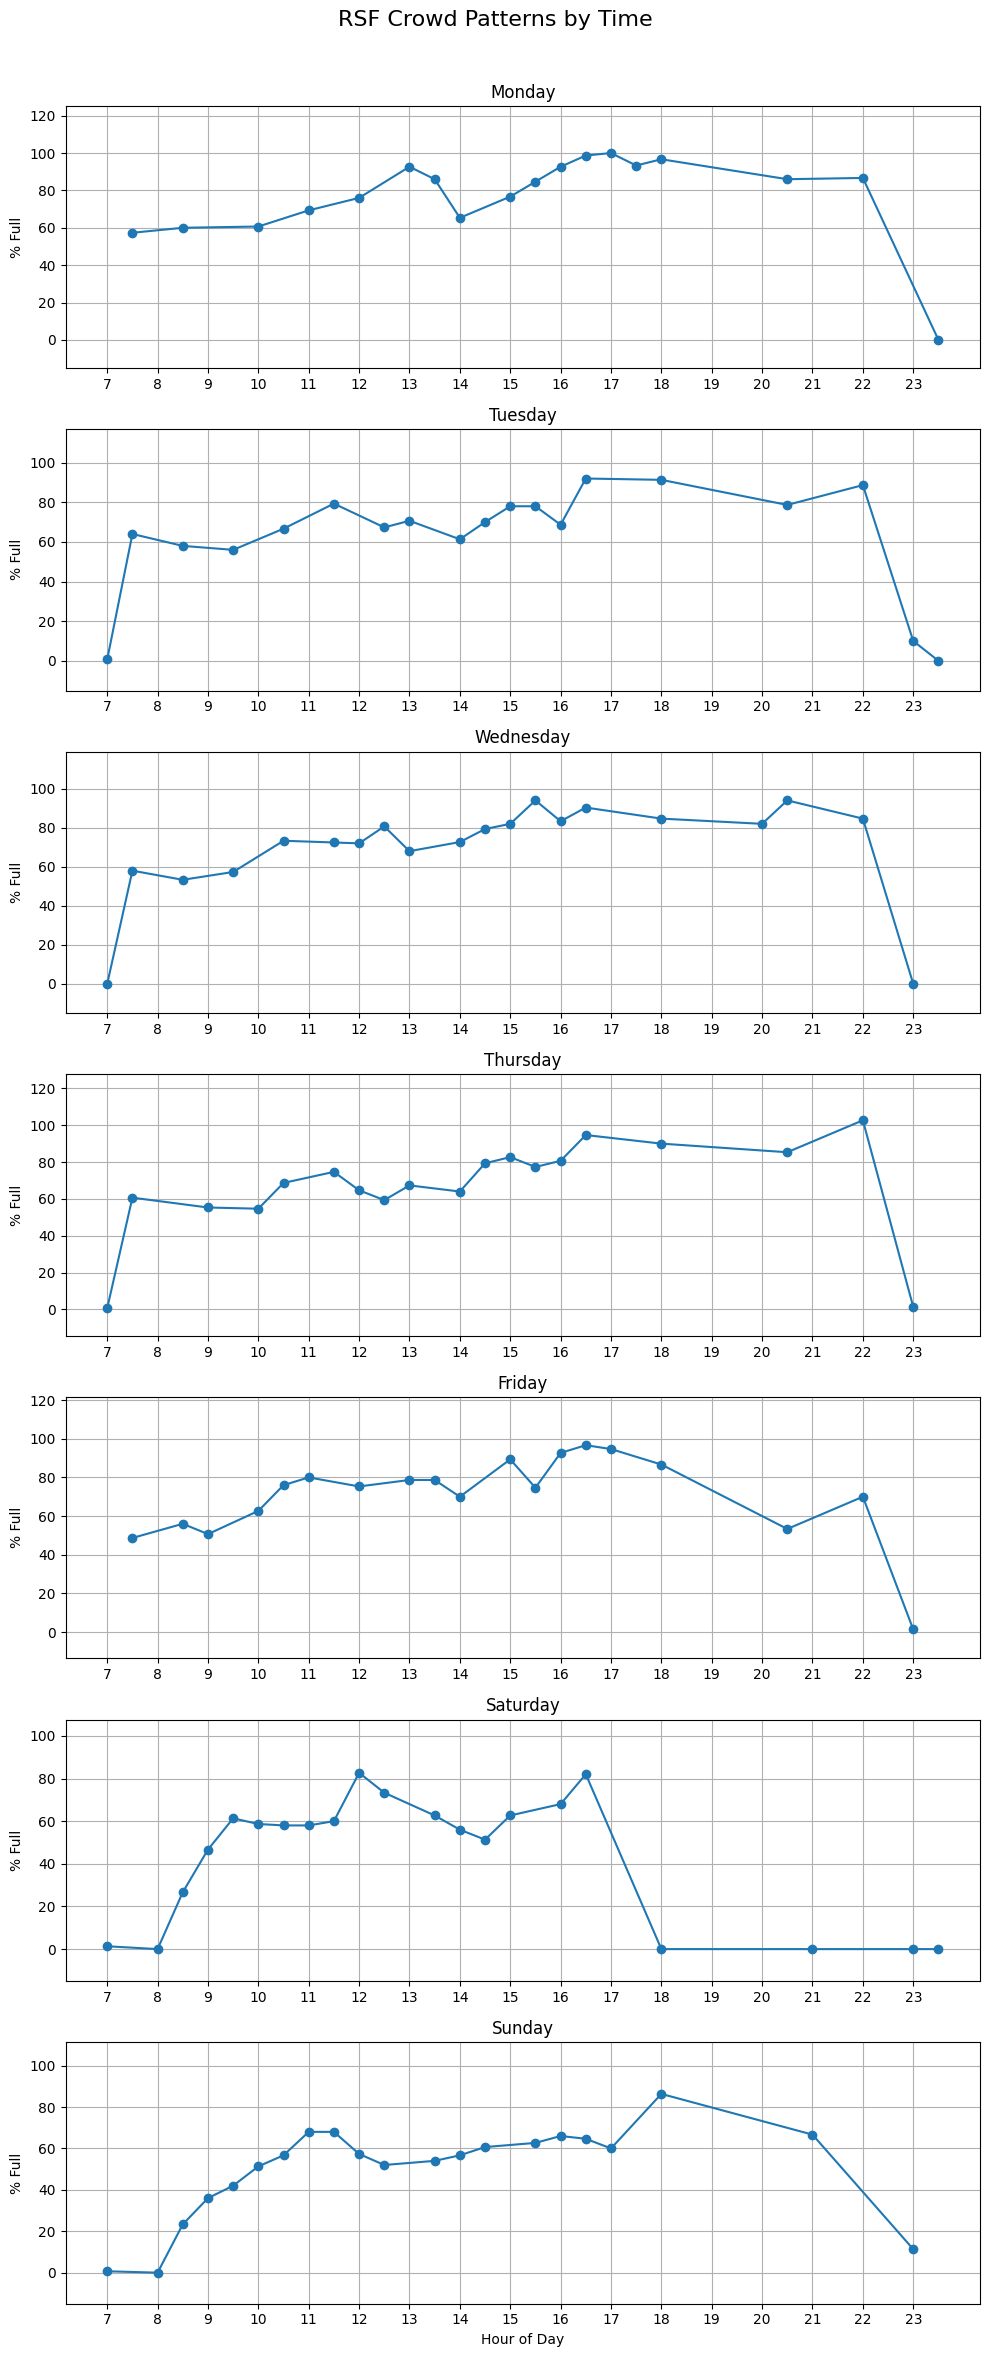
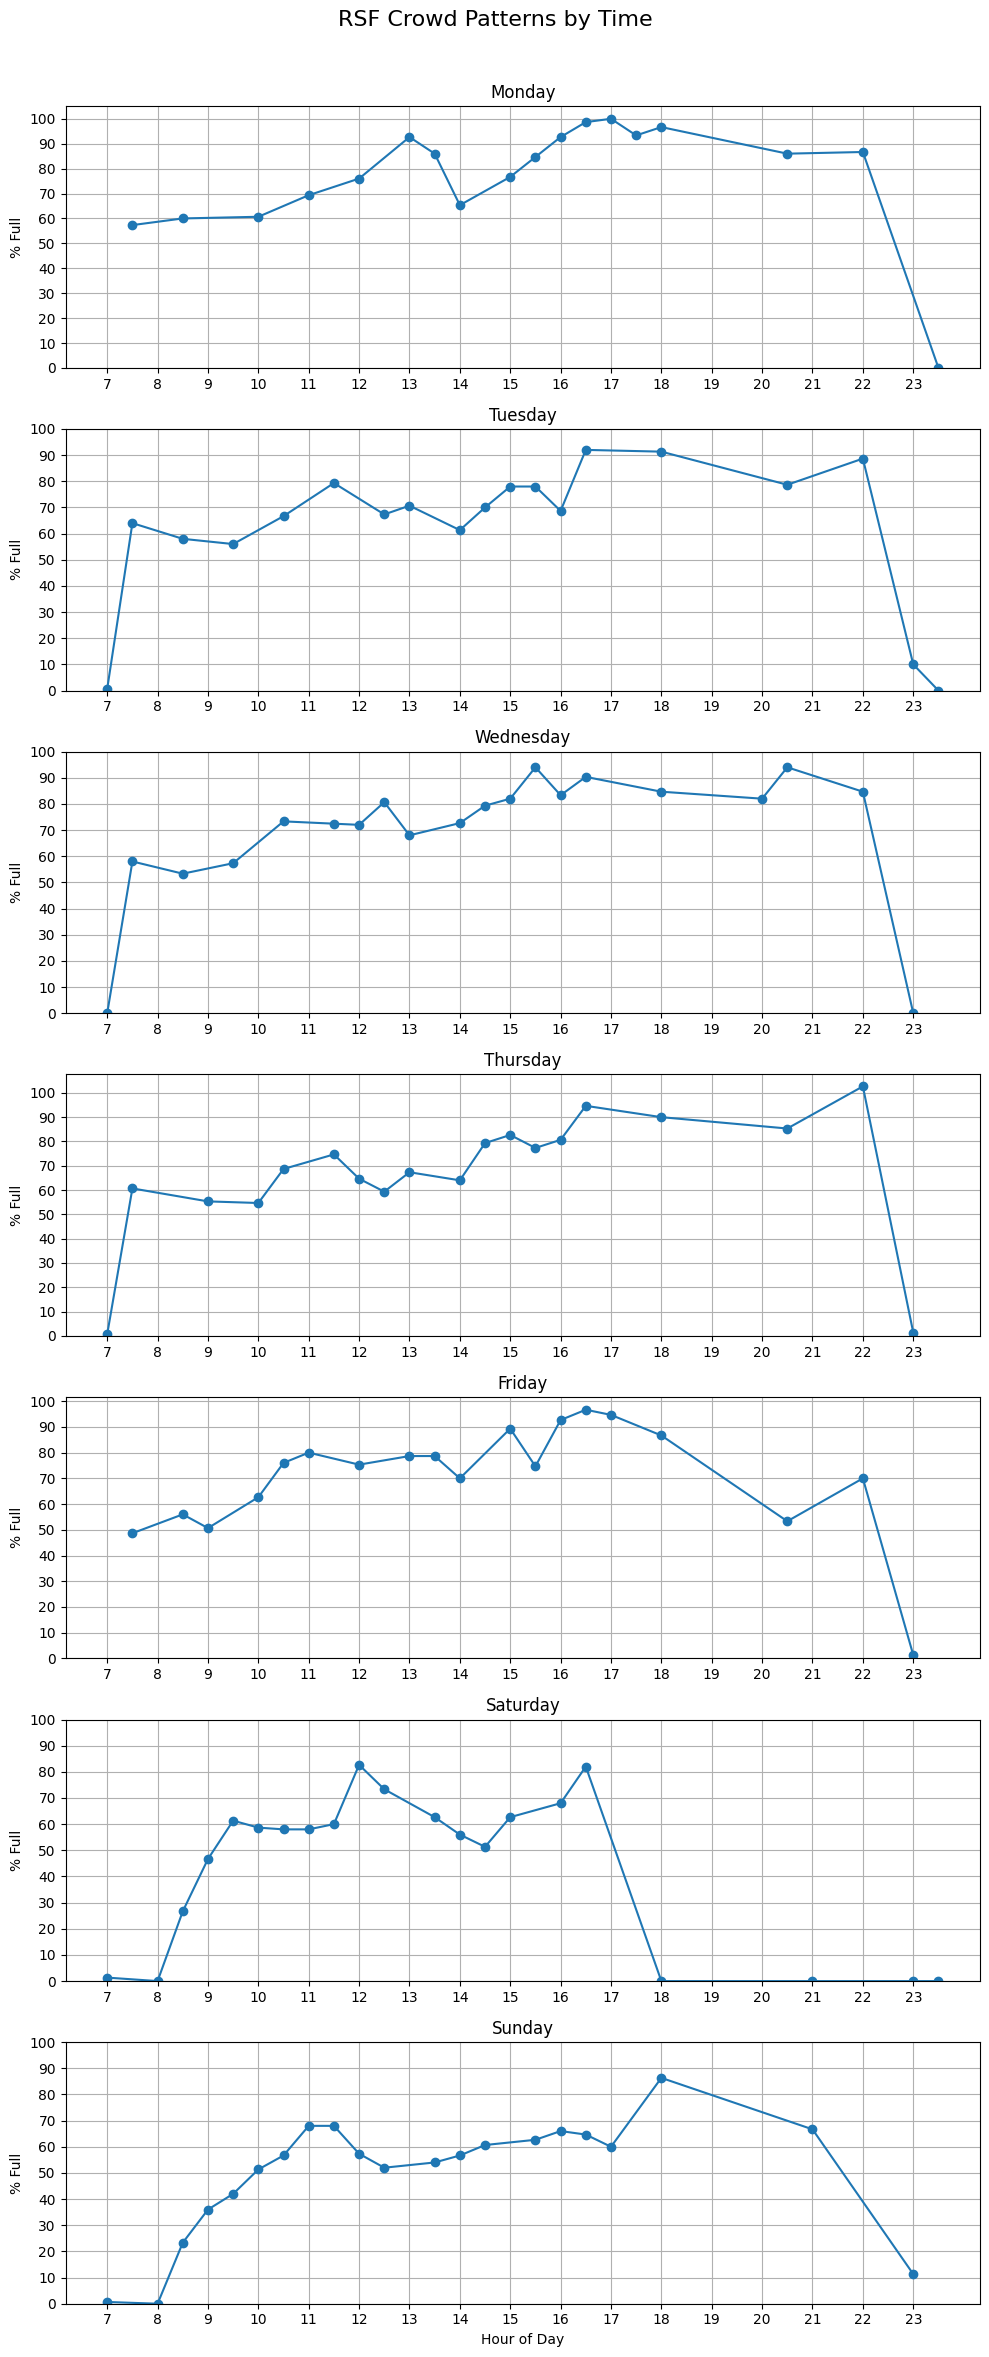
fixed y ticks and scalings

diff --git a/make_graph.py b/make_graph.py
@@ -41,7 +41,7 @@ day_map = {
 
 # %%
 # Create subplots (7 rows, 1 column)
-fig, axes = plt.subplots(7, 1, figsize=(10,18), sharex=True)
+fig, axes = plt.subplots(7, 1, figsize=(10, 24), sharex=True)
 
 for i, day in enumerate(sorted(grouped["weekday"].unique())):
     data = grouped[grouped["weekday"] == day]
@@ -52,7 +52,9 @@ for i, day in enumerate(sorted(grouped["weekday"].unique())):
     axes[i].plot(x, data["percent_full"], marker="o")
     axes[i].set_title(day_map[day])
     axes[i].set_ylabel("% Full")
-    axes[i].set_ylim(data["percent_full"].min()-5, data["percent_full"].max()+10)
+    ymin = data["percent_full"].min() - 15
+    ymax = data["percent_full"].max() + 25
+    axes[i].set_ylim(ymin, ymax)
     axes[i].grid(True)
     axes[i].tick_params(labelbottom=True)
 
